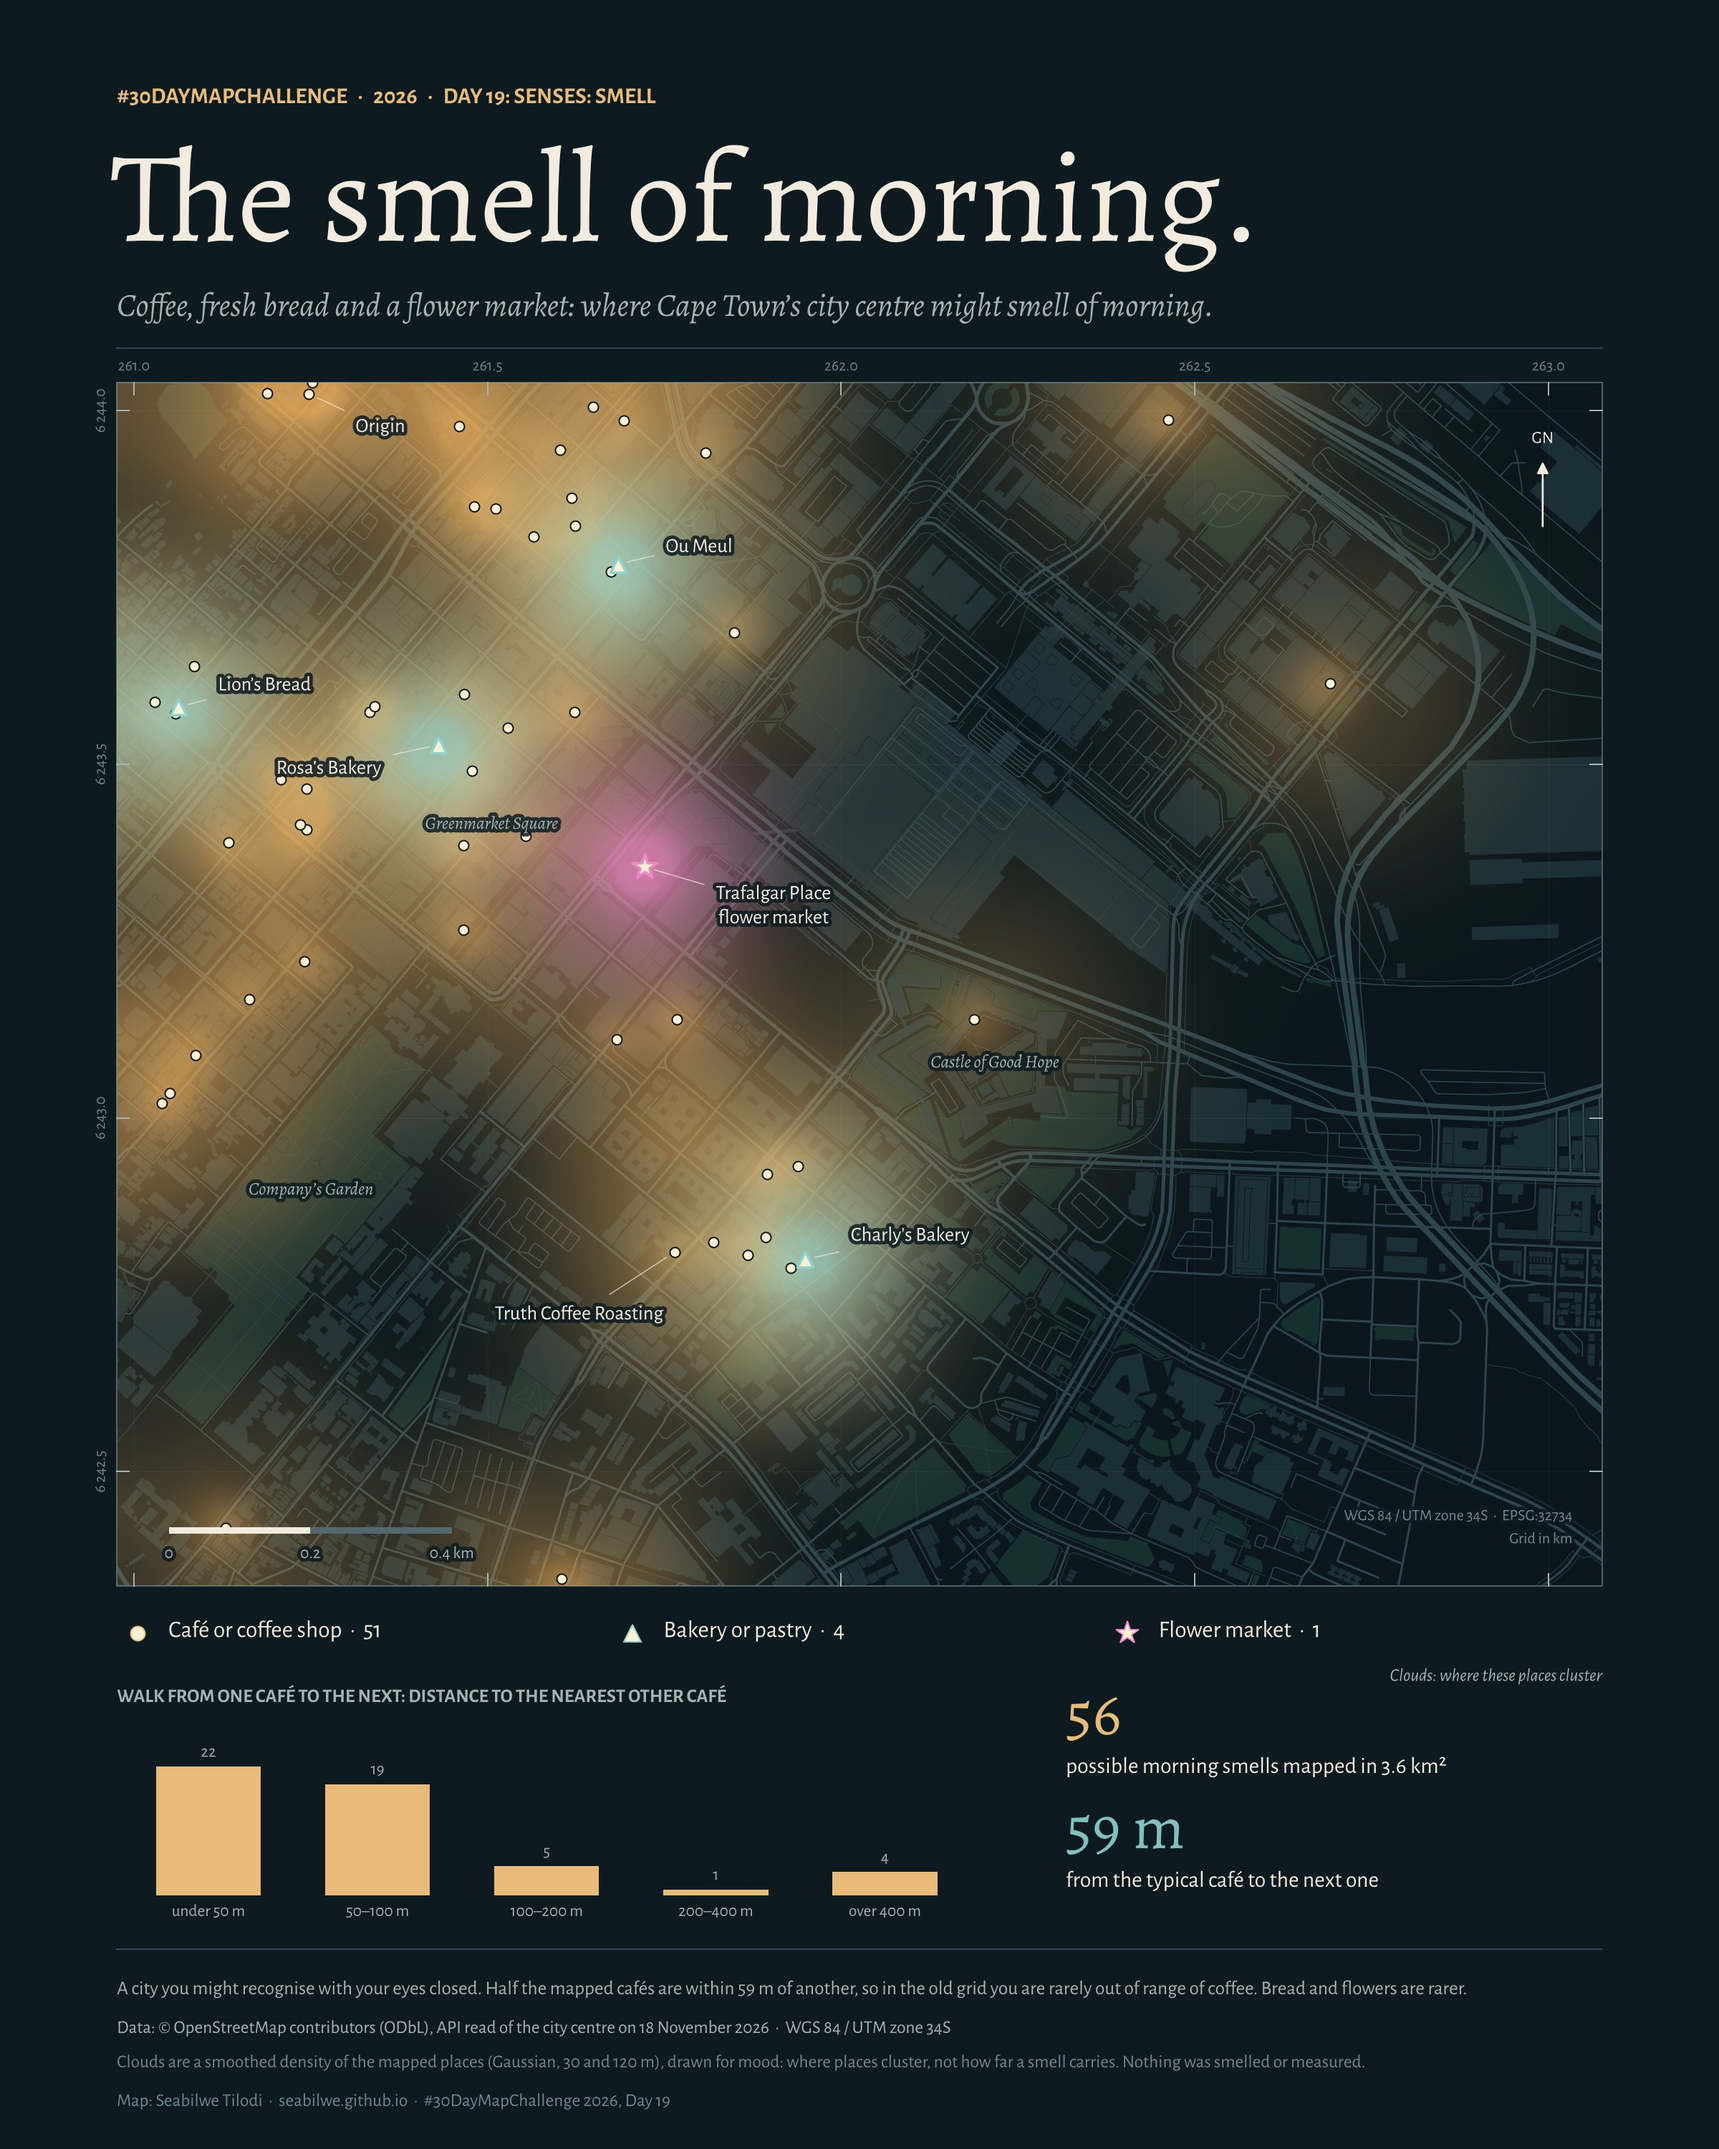
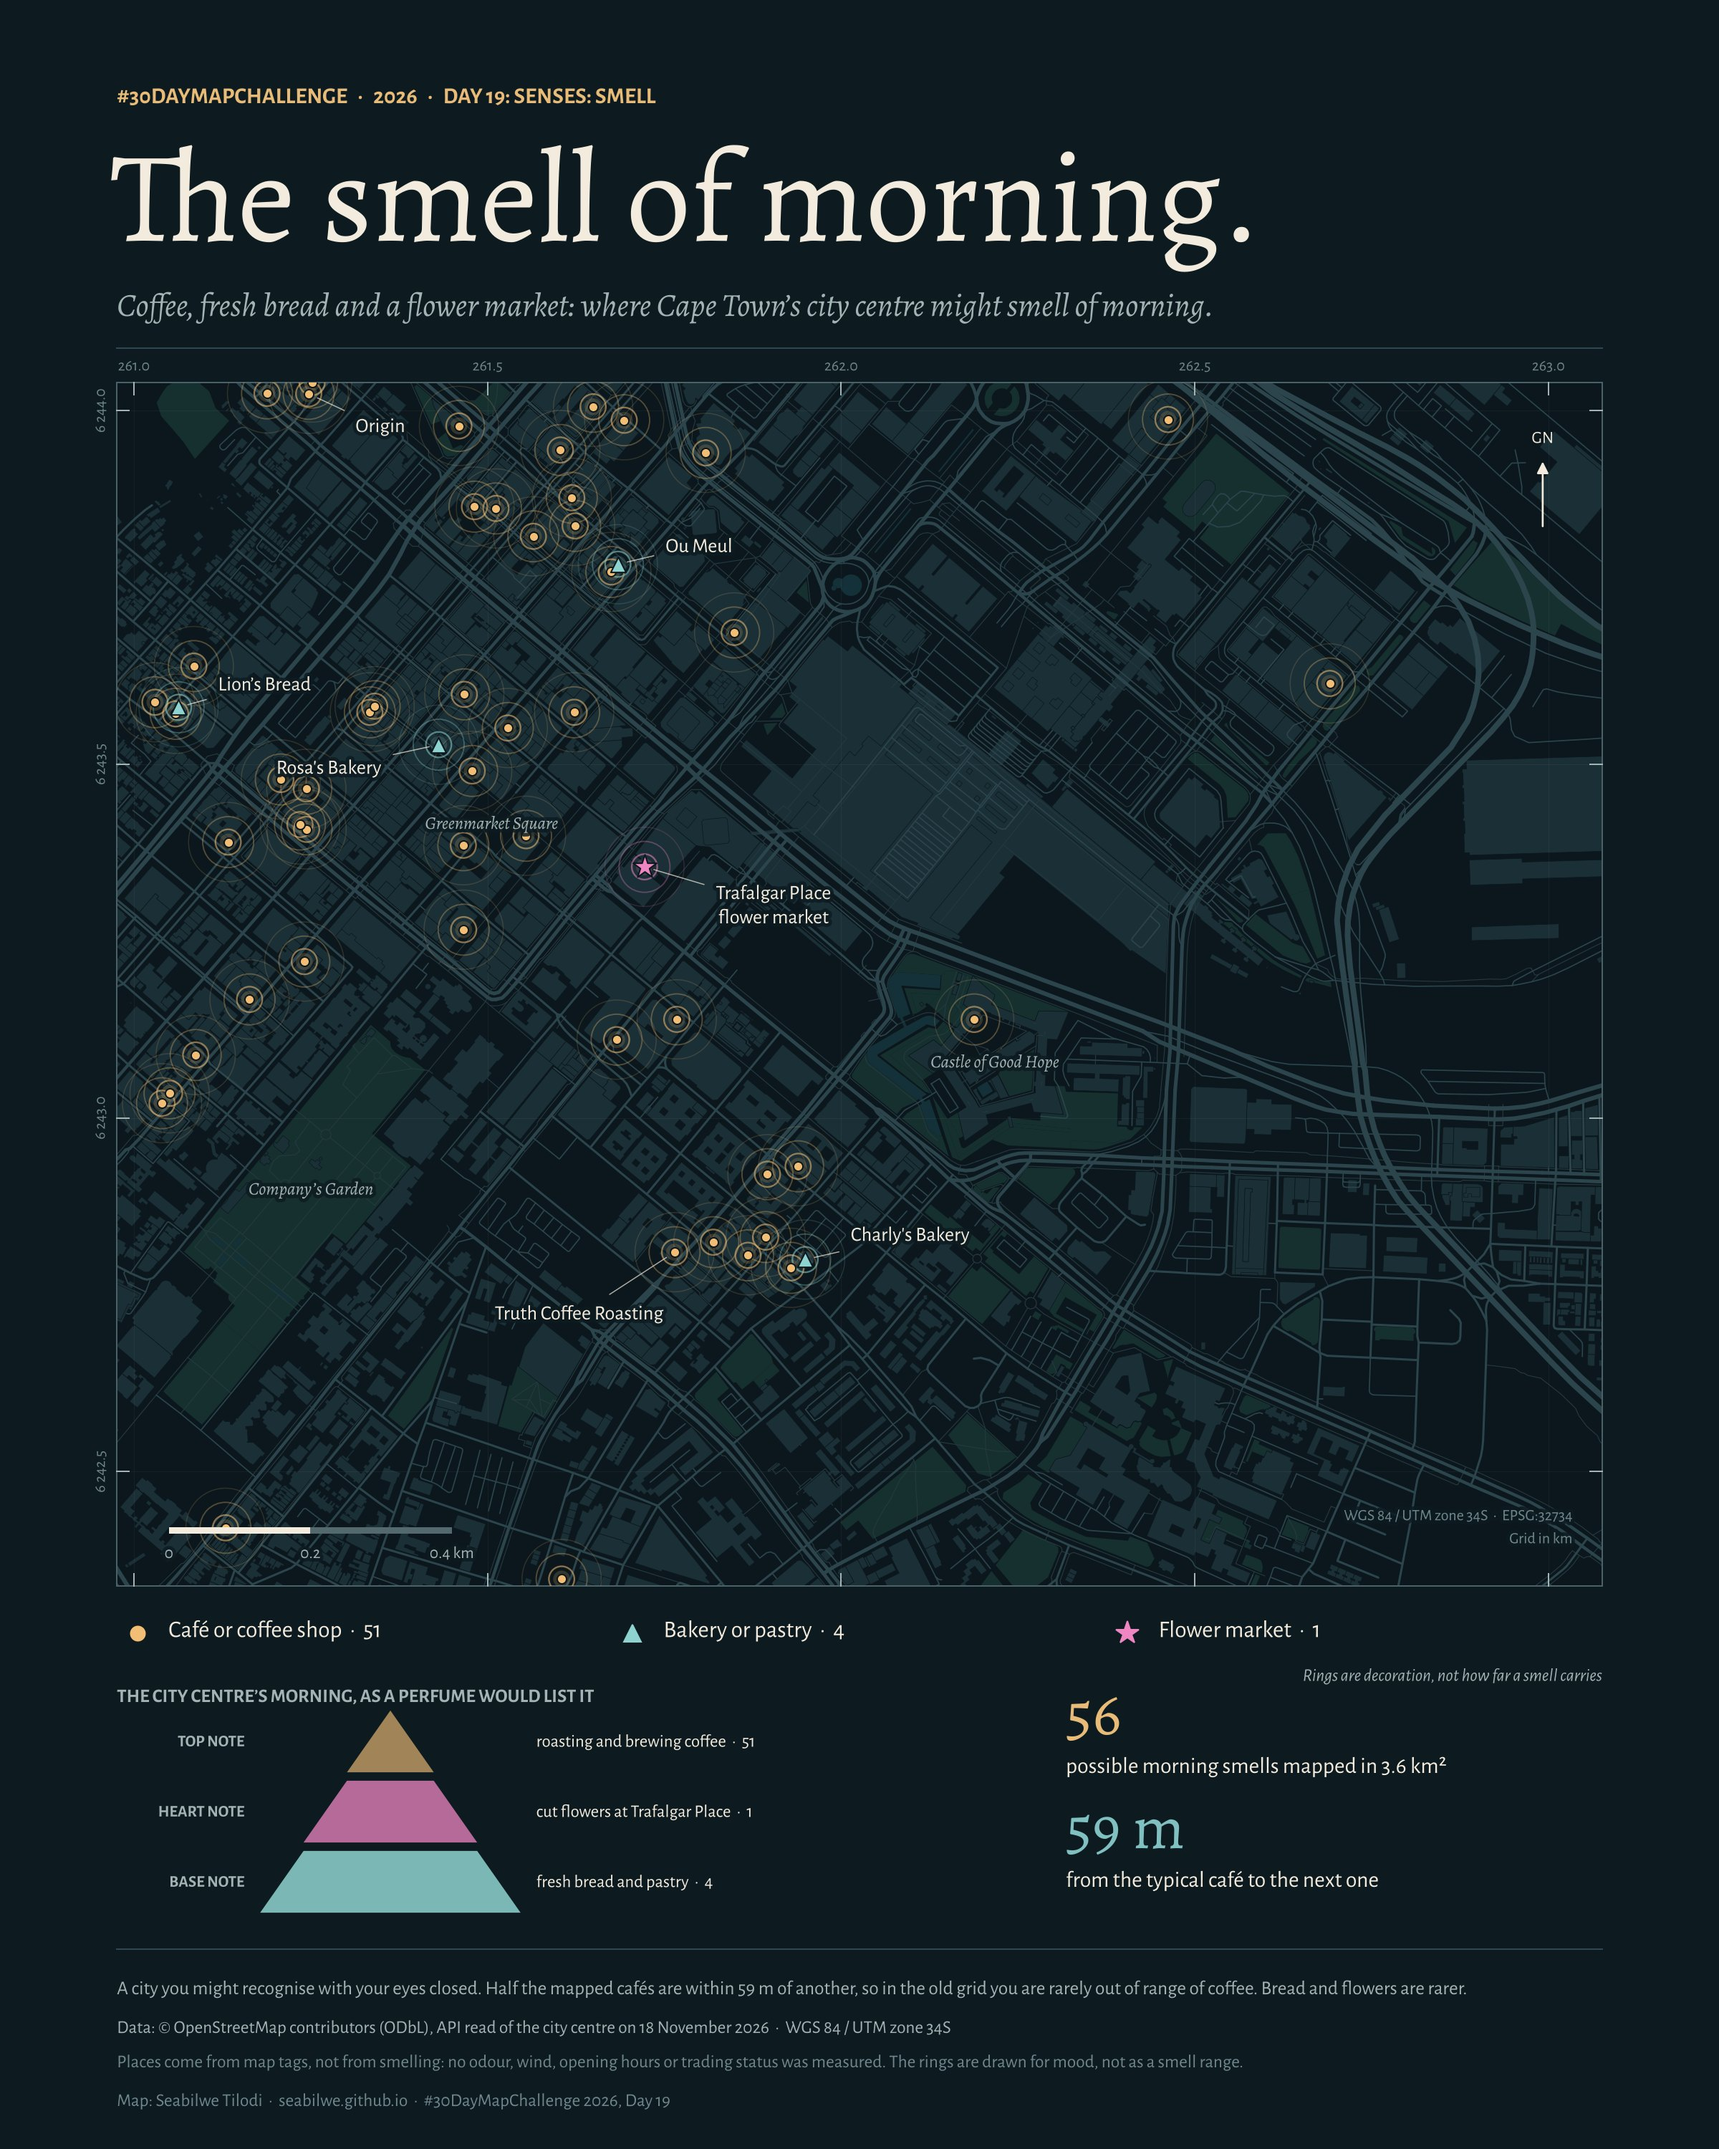
Deploying to gh-pages from @ seabilwe/seabilwe.github.io@daffc0f837e9197e30d7e1aabcf760ecddbba8e2 🚀

diff --git a/map-30daymapchallenge.html b/map-30daymapchallenge.html
@@ -10,7 +10,7 @@
 <link rel="preconnect" href="https://fonts.gstatic.com" crossorigin>
 <link href="https://fonts.googleapis.com/css2?family=Alegreya:ital,wght@0,500;0,700;1,500&family=Alegreya+Sans:ital,wght@0,400;0,500;0,700;1,400&family=Kalam:wght@400&display=swap" rel="stylesheet">
 <link rel="stylesheet" href="assets/css/site.css?v=20261114c">
-<link rel="stylesheet" href="assets/css/map-folder.css?v=20261119d">
+<link rel="stylesheet" href="assets/css/map-folder.css?v=20261119e">
 </head>
 <body>
 <header class="topbar">
@@ -598,13 +598,13 @@
                 <ul>
                   <li>Read the OpenStreetMap data of the city centre from the OSM API and picked places by their tags: cafés and coffee shops, bakeries and pastry shops, and the flower market.</li>
                   <li>Collapsed one duplicate record (the same name and category within 30&nbsp;m).</li>
-                  <li>Drew them over a quiet base of buildings, streets and gardens in UTM&nbsp;34S, with soft aroma clouds: a smoothed density of the mapped places (Gaussian kernels of 30 and 120&nbsp;m, lightly broken up so they read as clouds).</li>
-                  <li>The clouds show where the places cluster, not how far a smell carries. Measured each café&rsquo;s distance to its nearest neighbour for the chart.</li>
+                  <li>Drew them over a quiet base of buildings, streets and gardens in UTM&nbsp;34S, each with thin rings rippling out like scent lifting off a cup. Where cafés cluster, the ripples overlap.</li>
+                  <li>The rings are decoration, not a smell range. The chart lists the morning like a perfume&rsquo;s note pyramid, and each café&rsquo;s distance to its nearest neighbour gives the typical 59&nbsp;m.</li>
                   <li>These are places that might smell of coffee, bread or flowers, read from map tags. No odour, wind, opening hours or trading status was measured.</li>
                 </ul>
                 <h4>Data</h4>
                 <p class="src">&copy; OpenStreetMap contributors (ODbL), API read of the Cape Town city centre, 18 November 2026.</p>
-                <ul class="tags"><li>Senses</li><li>Kernel density</li><li>OpenStreetMap</li><li>Python · matplotlib</li></ul>
+                <ul class="tags"><li>Senses</li><li>Nearest-neighbour</li><li>OpenStreetMap</li><li>Python · matplotlib</li></ul>
               </div>
             </article>
 
@@ -687,6 +687,6 @@
   </main>
 </div>
 <script src="assets/js/site.js"></script>
-<script src="assets/js/map-folder.js?v=20261119d"></script>
+<script src="assets/js/map-folder.js?v=20261119e"></script>
 </body>
 </html>
